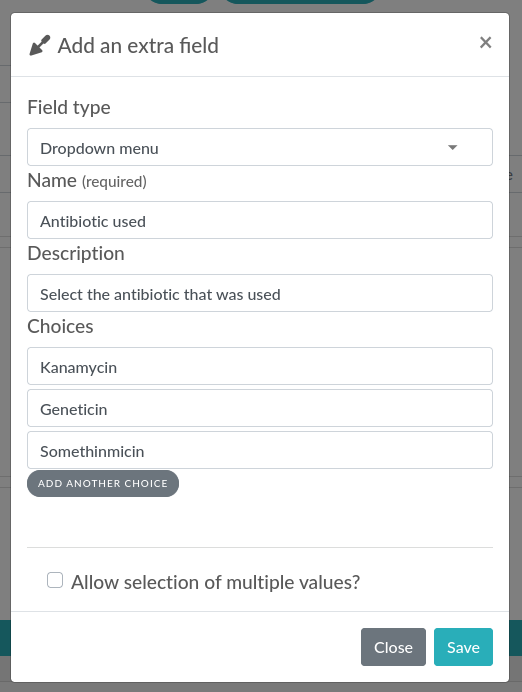
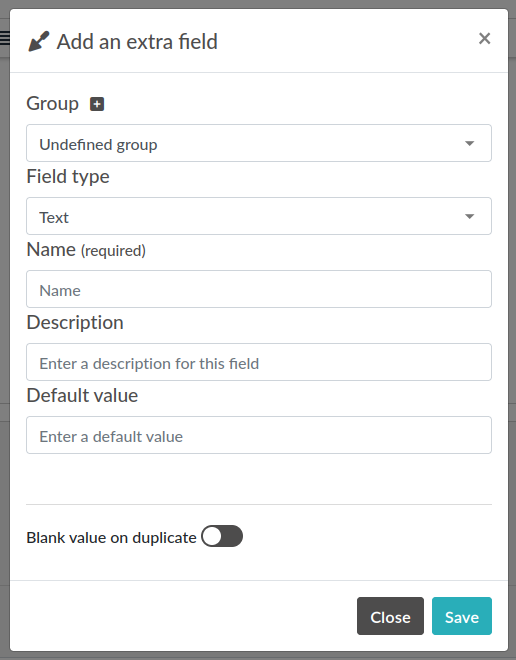
changelog

Changed region(s): [[0.0, 0.0, 1.0, 1.0], [0.062, 0.7879, 0.6822, 0.8788], [0.8372, 0.1818, 0.8992, 0.2121]]

diff --git a/doc/metadata.rst b/doc/metadata.rst
@@ -9,18 +9,22 @@ This page describes the usage of the metadata JSON field attached to experiments
 Description
 ===========
 
-Since eLabFTW 4.0.0, you can add custom JSON data to your entries, using the `metadata` attribute. You can add arbitrary JSON, or use specific keys to extend the customization of the entry, for instance by adding extra fields.
+Since eLabFTW 4.0.0, you can add custom JSON data to your entries, using the `metadata` attribute. You can add arbitrary JSON, or use specific keys to extend the customization of the entry, for instance by adding extra fields. Experiments, Items and their templates all have this attribute.
 
 Getting started
 ===============
 
-Let's try it on an Experiment. Create a new experiment, and scroll down (in edit mode) to the "JSON Editor" part. The "Load metadata" button is disabled because the `metadata` attribute is already loaded in the editor. But for now it is empty.
+Let's try it on an Experiment. Create a new experiment, and scroll down (in edit mode) to the "Extra fields" part.
 
-Click "Add a field", a menu will appear. From there, you must first select which type of input you want for your extra field. Let's select "Dropdown menu" for our example. Enter a name for this input, optionally a description and at least 2 entries to select from.
+Click "Add field", a modal window will appear.
 
 .. image:: img/extra-field-builder.png
     :align: center
     :alt: Extra field builder
+
+If you want your new inputs to appear in groups, you can click the + button next to "Group" to add a new group. Or select an existing group from the dropdown menu.
+
+Then you can select which type of input you want for your extra field. Let's select "Dropdown menu" for our example. Enter a name for this input, optionally a description and at least 2 entries to select from.
 
 Then click save and the new input (extra field) will appear right under the "Save" and "Save and go back" buttons:
 
@@ -28,7 +32,7 @@ Then click save and the new input (extra field) will appear right under the "Sav
     :align: center
     :alt: Extra field view
 
-You are free to add as many as you want, of different types. It is most useful in the Templates, so when creating an entry, all the required inputs are already present.
+You are free to add as many as you want, of different types. It is most useful to define them in the Templates, so when creating an entry, all the required inputs are already present.
 
 Advanced use
 ============
@@ -41,7 +45,7 @@ Keep in mind that what the builder menu will do for you is simply create some JS
 
 Positions
 ---------
-In order to assign a particular position to the inputs, use the `position` key, with a number as value. The inputs will then be ordered based on this value. Lowest value being on top.
+In order to assign a particular position to the inputs, use the `position` key, with a number as value. The inputs will then be ordered based on this value. Lowest value being on top. Groups are shown in the position they are defined.
 
 Removing an input
 -----------------
@@ -53,7 +57,10 @@ If you wish to remove an input, click the icon on the left of it and select "Rem
 
 Masking the main text
 ---------------------
-It is possible to hide the main text input by setting a special attribute: `display_main_text` to `false` in the `elabftw` key. Something like this:
+It is possible to hide the main text input by toggling the "Display main text" in the JSON Editor section. 
+
+This will result in the presence of a special attribute: `display_main_text` with a value of `false` in the `elabftw` key:
+
 
 .. code:: javascript
 
@@ -170,6 +177,10 @@ Add a number as a value to correctly order the extra fields how you want them.
 blank_value_on_duplicate
 ------------------------
 Set to `true` for the value to be blanked when the entity is duplicated.
+
+group_id
+--------
+A number corresponding to the `id` of a group defined in the `elabftw.extra_fields_groups` object. Groups are defined as an array of objects with `id` and `name` properties.
 
 Usage example
 =============

diff --git a/doc/changelog.rst b/doc/changelog.rst
@@ -29,6 +29,7 @@ New features:
 * Add support for Keeex.me action during timestamping
 * Allow sending emails to teamgroups from the team/email page (PR #4320)
 * Allow filtering by tags from APIv2
+* Allow grouping extra fields in togglable sections (PR #4330 fix #4230)
 
 Enhancements:
 `````````````
@@ -49,6 +50,8 @@ Enhancements:
 * Add link to api documentation in helper/community menu
 * Change userid column type to int in uploads table and add indices (PR #4024 by Marcel)
 * Display the maximum file size allowed on upload form
+* Display custom json stored in metadata in view mode (fix #4256)
+* Allow changing uploaded files name and delete it from view mode
 
 Bugfixes:
 `````````
@@ -60,6 +63,7 @@ Bugfixes:
 * Fix issue when adding link to entity with same id (fix #4291, fix #4275)
 * Fix incorrect handling of `deletable_xp` general config (fix #4272)
 * Fix issue with unfinished steps from deleted entries showing up in todolist with team scope (PR #4322 by Marcel, fix #4317)
+* Fix GET apikeys openapi spec
 
 Container changes:
 ``````````````````
@@ -78,6 +82,8 @@ Dev corner:
 * Improve LdapAuth class (#4197)
 * Add `tests/clean.sh` script
 * `phpstan` now officially managed by composer
+* Add codespell action in CI (PR #4338 by Yaroslav Halchenko)
+* Add `.mailmap` file for mapping author's emails better (PR #4336 by Yaroslav Halchenko)
 
 
 Version 4.5.14
